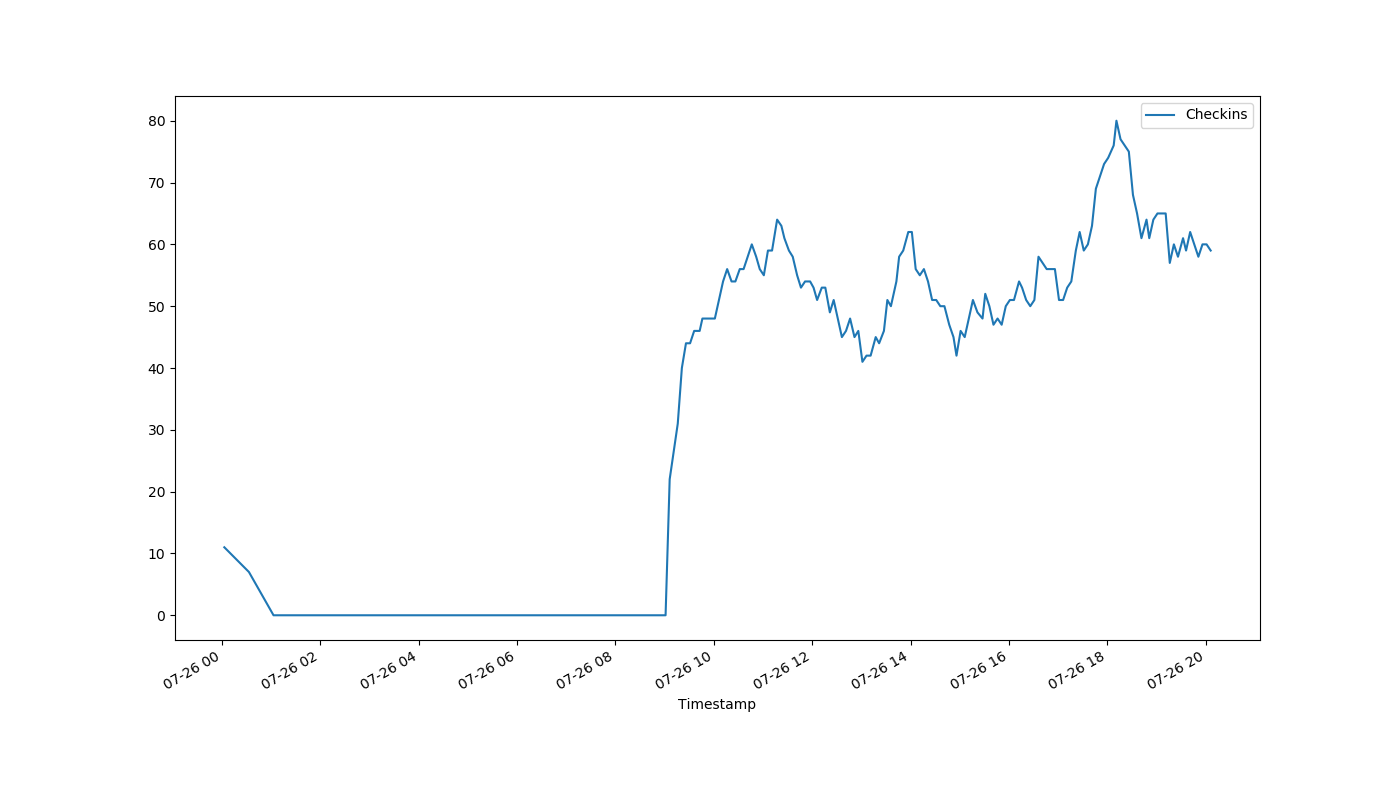
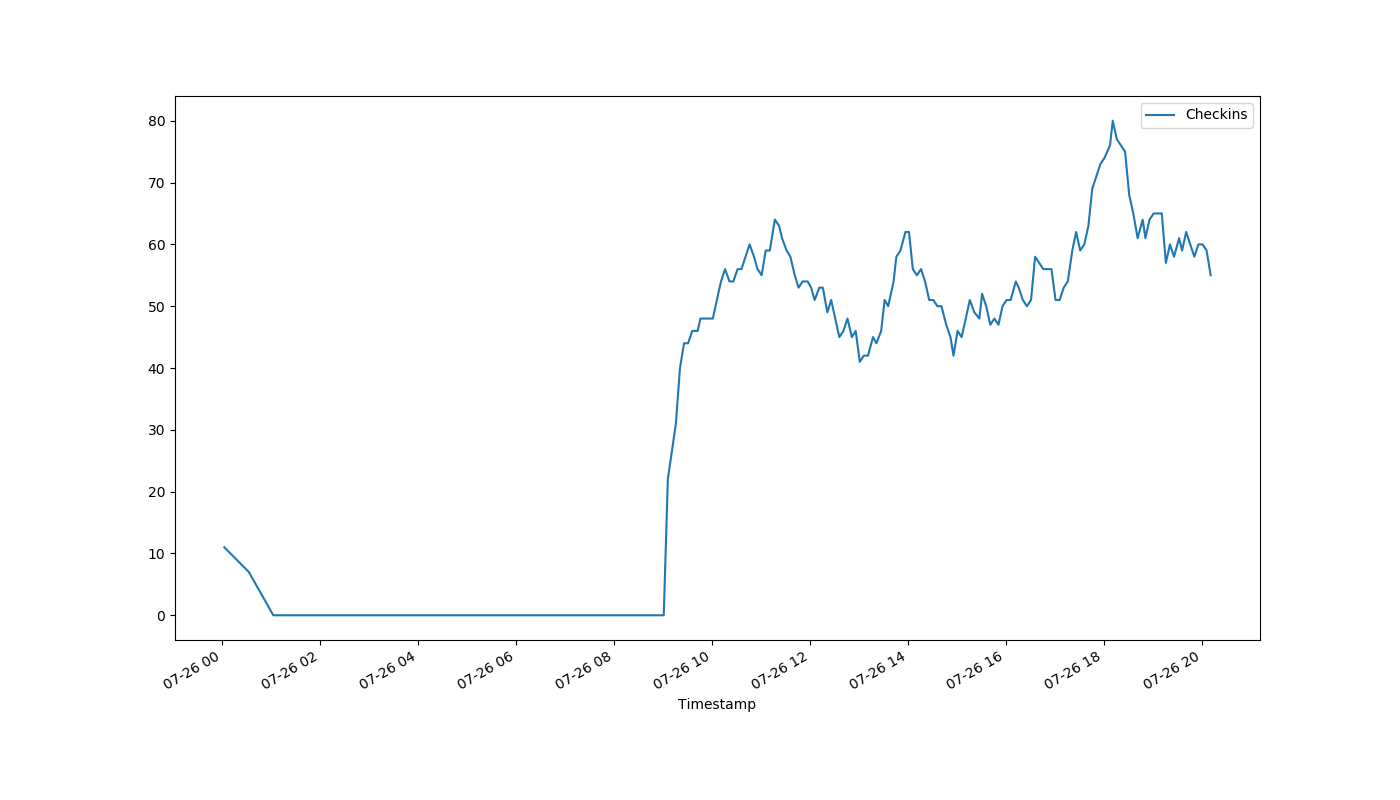
auto-Jul-26-20:11:26

diff --git a/index.html b/index.html
@@ -1,1 +1,1 @@
-<!DOCTYPE html><html><head><meta http-equiv="refresh" content="30"><link rel='stylesheet' href='holmcurrent.css'></head><body><p id='count'>59</p><div id='graph-wrap'><img id='graph' src='holmgraph-Jul-26.png'></div><p id='updated'>Last updated 20:06:19 / 20:06:05</p></body></html>
+<!DOCTYPE html><html><head><meta http-equiv="refresh" content="30"><link rel='stylesheet' href='holmcurrent.css'></head><body><p id='count'>55</p><div id='graph-wrap'><img id='graph' src='holmgraph-Jul-26.png'></div><p id='updated'>Last updated 20:11:19 / 20:11:06</p></body></html>
